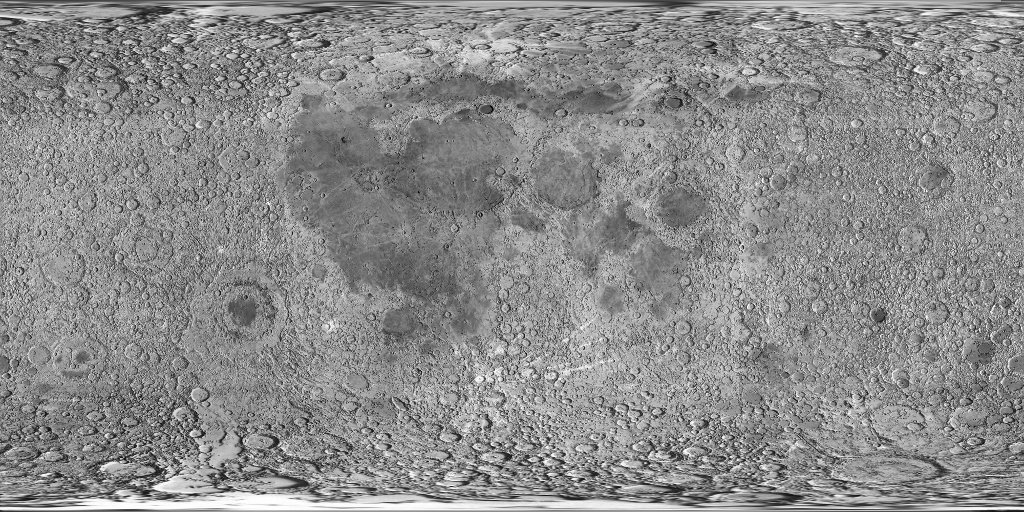
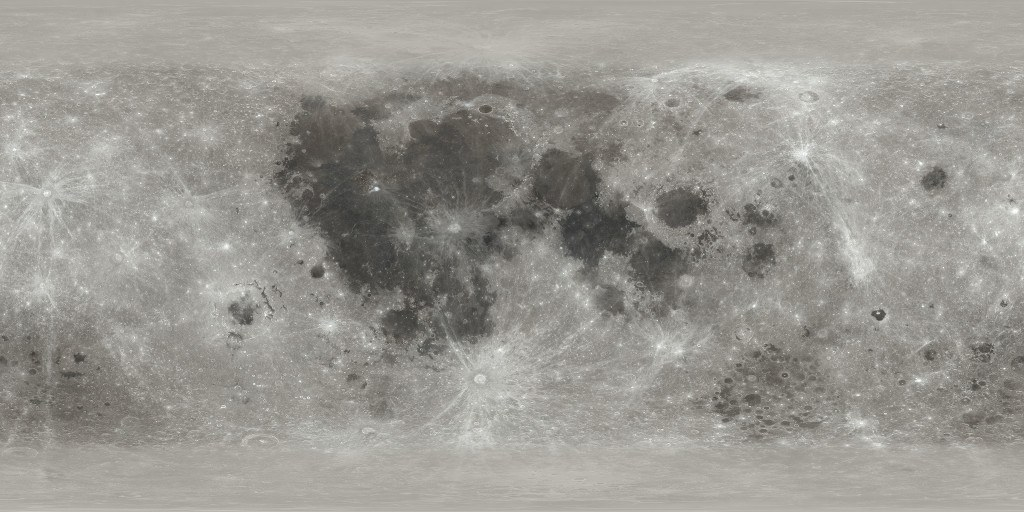
feat: replace the placeholder Earth and Moon textures with NASA imagery
The old three.js images had no recorded licence or source. The new set is
processed from NASA imagery, which NASA's usage guidelines say is generally
not subject to copyright for texture maps: Blue Marble (day), Black Marble
2016 (night), a cloud layer recovered from the SVS Earth with and without
clouds, and the LRO colour map (Moon). Sources and processing are in
public/assets/tex/CREDITS.md and tools/make_textures.py, which reproduces the
files exactly.

The night map includes moonlit snow and terrain the old lights map did not, so
the Earth shader now shows only the warm city lights (gated on the red channel)
and keeps the rest of the night side dark.

diff --git a/src/scenes/earth/index.ts b/src/scenes/earth/index.ts
@@ -20,11 +20,11 @@ function earth(): Scene {
   const black = new THREE.DataTexture(new Uint8Array([0, 0, 0, 255]), 1, 1); black.needsUpdate = true;
   const eMat = new THREE.ShaderMaterial({ uniforms: { uDay: { value: blue }, uNight: { value: black }, uSun: { value: sunDir } },
     vertexShader: 'varying vec2 vUv;varying vec3 vN;void main(){vUv=uv;vN=normalize(mat3(modelMatrix)*normal);gl_Position=projectionMatrix*modelViewMatrix*vec4(position,1.);}',
-    fragmentShader: 'uniform sampler2D uDay,uNight;uniform vec3 uSun;varying vec2 vUv;varying vec3 vN;void main(){vec3 N=normalize(vN);float l=dot(N,normalize(uSun));vec3 day=texture2D(uDay,vUv).rgb,night=texture2D(uNight,vUv).rgb;float dm=smoothstep(-.12,.22,l);vec3 c=mix(night*1.5+day*.03,day*(.05+max(l,0.)*1.05),dm);gl_FragColor=vec4(c,1.);}' });
-  loader.load(TEX + 'earth_atmos_2048.jpg', t => eMat.uniforms.uDay.value = t); loader.load(TEX + 'earth_lights_2048.png', t => eMat.uniforms.uNight.value = t);
+    fragmentShader: 'uniform sampler2D uDay,uNight;uniform vec3 uSun;varying vec2 vUv;varying vec3 vN;void main(){vec3 N=normalize(vN);float l=dot(N,normalize(uSun));vec3 day=texture2D(uDay,vUv).rgb,night=texture2D(uNight,vUv).rgb;float dm=smoothstep(-.12,.22,l);vec3 c=mix(night*smoothstep(.2,.6,night.r)*1.45+night*.06+day*.03,day*(.05+max(l,0.)*1.05),dm);gl_FragColor=vec4(c,1.);}' });
+  loader.load(TEX + 'earth_day_2048.jpg', t => eMat.uniforms.uDay.value = t); loader.load(TEX + 'earth_night_2048.jpg', t => eMat.uniforms.uNight.value = t);
   const earthMesh = new THREE.Mesh(new THREE.SphereGeometry(1, 96, 64), eMat); group.add(earthMesh);
   const cloudMat = new THREE.MeshLambertMaterial({ color: 0xffffff, transparent: true, opacity: .5, depthWrite: false, emissive: 0x050608 });
-  loader.load(TEX + 'earth_clouds_1024.png', t => { cloudMat.map = t; cloudMat.needsUpdate = true });
+  loader.load(TEX + 'earth_clouds_2048.png', t => { cloudMat.map = t; cloudMat.needsUpdate = true });
   const clouds = new THREE.Mesh(new THREE.SphereGeometry(1.012, 64, 48), cloudMat); group.add(clouds);
   const atm = new THREE.Mesh(new THREE.SphereGeometry(1.04, 64, 48), new THREE.ShaderMaterial({ uniforms: { uSun: { value: sunDir } }, side: THREE.BackSide, transparent: true, depthWrite: false, blending: THREE.AdditiveBlending,
     vertexShader: 'varying vec3 vN;varying vec3 vW;void main(){vN=normalize(normalMatrix*normal);vW=normalize(mat3(modelMatrix)*normal);gl_Position=projectionMatrix*modelViewMatrix*vec4(position,1.);}',

diff --git a/src/scenes/solar/data.ts b/src/scenes/solar/data.ts
@@ -9,7 +9,7 @@ export type MoonDef = [string, string, string, number, number, number, number, n
 export const PLANETS: PlanetDef[] = [
   { id: 'mercury', label: 'Mercury', rkm: 2439.7, color: 0xa59b91, sub: 'Planet · 88-day year', text: 'The smallest planet and closest to the Sun. Its surface swings from 430 °C by day to −180 °C at night.', period: '88 days' },
   { id: 'venus', label: 'Venus', rkm: 6051.8, color: 0xe4c37d, sub: 'Planet · 225-day year', text: 'Hotter than Mercury thanks to a runaway greenhouse effect. It spins backwards, so the Sun rises in the west.', period: '225 days' },
-  { id: 'earth', label: 'Earth', rkm: 6371, color: 0x3264be, tex: 'earth_atmos_2048.jpg', enter: 'earth', enterLabel: 'Enter Earth orbit', sub: 'Planet · 365.25-day year', text: 'The only world known to host life. Double-click to see every satellite and piece of debris tracked in orbit around it.', period: '365.25 days' },
+  { id: 'earth', label: 'Earth', rkm: 6371, color: 0x3264be, tex: 'earth_day_2048.jpg', enter: 'earth', enterLabel: 'Enter Earth orbit', sub: 'Planet · 365.25-day year', text: 'The only world known to host life. Double-click to see every satellite and piece of debris tracked in orbit around it.', period: '365.25 days' },
   { id: 'mars', label: 'Mars', rkm: 3389.5, color: 0xc36944, sub: 'Planet · 687-day year', text: 'A cold desert world with the tallest volcano (Olympus Mons) and the longest canyon system (Valles Marineris) in the solar system.', period: '687 days' },
   { id: 'jupiter', label: 'Jupiter', rkm: 69911, color: 0xd0b28a, bands: [['#b9926b', .5], ['#e8d6b4', .8], ['#a86f4a', .6], ['#eadbc0', .7], ['#b98458', .5], ['#e2cca3', .6], ['#9d6a48', .4]], sub: 'Gas giant · 12-year orbit', text: 'More massive than all other planets combined. The Great Red Spot is a storm wider than Earth that has raged for centuries.', period: '11.9 years' },
   { id: 'saturn', label: 'Saturn', rkm: 58232, color: 0xdecb9b, ring: true, bands: [['#cdb888', .5], ['#ecdcae', .7], ['#d3be8e', .5], ['#e6d4a4', .6]], sub: 'Gas giant · 29-year orbit', text: 'Famous for its spectacular rings of ice and rock. It is so light that it would float in a big enough bathtub.', period: '29.5 years' },

diff --git a/tools/make_textures.py b/tools/make_textures.py
@@ -1,0 +1,89 @@
+"""Rebuild the Earth and Moon textures in public/assets/tex/ from the original NASA images.
+
+Needs Pillow (pip install pillow). Download the five source images into one folder, then:
+
+    python tools/make_textures.py <folder with the downloads> public/assets/tex
+
+Sources (all NASA; see public/assets/tex/CREDITS.md for credit and terms):
+  day_src.jpg        https://assets.science.nasa.gov/content/dam/science/esd/eo/images/bmng/bmng-topography-bathymetry/july/world.topo.bathy.200407.3x5400x2700.jpg
+  night_src.jpg      https://assets.science.nasa.gov/content/dam/science/esd/eo/images/imagerecords/144000/144898/BlackMarble_2016_01deg.jpg
+  clouds_without.jpg https://svs.gsfc.nasa.gov/vis/a000000/a003600/a003615/earth_noClouds.0330.jpg
+  clouds_with.jpg    https://svs.gsfc.nasa.gov/vis/a000000/a003600/a003615/flat_earth_Largest_still.0330.jpg
+  moon_src.jpg       https://svs.gsfc.nasa.gov/vis/a000000/a004700/a004720/lroc_color_poles_1k.jpg
+(save each under the name on the left)
+
+Outputs:
+  earth_day_2048.jpg, earth_night_2048.jpg   resized to 2048x1024
+  earth_clouds_2048.png                      white RGBA, alpha = cloud cover recovered from the with/without pair
+  moon_1024.jpg                              1024x512
+"""
+import os, sys
+from PIL import Image, ImageChops, ImageFilter, ImageStat
+
+raw, out = sys.argv[1], sys.argv[2]
+os.makedirs(out, exist_ok=True)
+Image.MAX_IMAGE_PIXELS = 100_000_000
+W, H = 2048, 1024
+save = lambda im, name, **kw: im.save(os.path.join(out, name), **kw)
+
+def load(name, size=None):
+    im = Image.open(os.path.join(raw, name)).convert('RGB')
+    print(f'{name}: {im.size[0]}x{im.size[1]}')
+    return im.resize(size, Image.LANCZOS) if size and im.size != size else im
+
+# --- day, night, moon: straight resizes ---
+save(load('day_src.jpg', (W, H)), 'earth_day_2048.jpg', quality=88, optimize=True, progressive=True)
+save(load('night_src.jpg', (W, H)), 'earth_night_2048.jpg', quality=88, optimize=True, progressive=True)
+save(load('moon_src.jpg', (1024, 512)), 'moon_1024.jpg', quality=88, optimize=True, progressive=True)
+
+# --- clouds: recover cover from the with/without pair ---
+lw = load('clouds_with.jpg', (W, H)).convert('L')
+lo = load('clouds_without.jpg', (W, H)).convert('L')
+
+# the two images must be registered, or the difference is garbage: compare mean absolute difference at several shifts
+small = lambda im: im.resize((512, 256), Image.BOX)
+sw, so = small(lw), small(lo)
+mad = {dx: ImageStat.Stat(ImageChops.difference(ImageChops.offset(sw, dx, 0), so)).mean[0] for dx in range(-8, 9)}
+best = min(mad, key=mad.get)
+print(f'registration: mean abs difference {mad[0]:.2f}/255 at no shift; best shift = {best * 4} px ({mad[best]:.2f})')
+# clouds legitimately make the images differ a lot, so judge alignment by a clear minimum at zero shift, not by a threshold
+if best != 0 or min(mad[-1], mad[1]) < mad[0] * 1.03:
+    sys.exit('images are not registered; refusing to derive clouds')
+
+# clouds are (near) white: with = a*white + (1-a)*without  =>  a = (with - without) / (1 - without)
+num = ImageChops.subtract(lw, lo)                       # clipped at 0: clouds only brighten the surface
+den = lo.point(lambda v: max(255 - v, 15))              # headroom left to white (floor avoids dividing by ~0)
+a_num, a_den = num.load(), den.load()
+cover = Image.new('L', (W, H))
+px, src_o = cover.load(), lo.load()
+for y in range(H):
+    for x in range(W):
+        if src_o[x, y] > 237:          # snow/ice is already white: cover cannot be told apart there
+            continue
+        v = min(255, a_num[x, y] * 255 // a_den[x, y])
+        if v >= 8: px[x, y] = v        # drop noise so clear sky stays clear
+# The two source images differ slightly in colour grading and coastline sharpness, which leaves 1-px ghost coastlines and a
+# faint haze over bright land. A median filter removes the thin lines; a soft floor removes the haze but keeps real cloud.
+cover = cover.filter(ImageFilter.MedianFilter(5))
+FLOOR = 56  # alpha below ~22% is treated as no cloud
+cover = cover.point(lambda v: 0 if v <= FLOOR else min(255, (v - FLOOR) * 255 // (255 - FLOOR)))
+# The source cloud composite only covers roughly 60 N to 60 S and stops in a hard line. Fade the layer out over ~10 degrees
+# before each limit so no ring shows on the globe.
+rows = cover.resize((1, H), Image.BOX)           # average cover per row, so stray pixels near the poles do not count
+ys = [y for y in range(H) if rows.getpixel((0, y)) > 6]
+top = bottom = ys[0]
+for y in ys[1:]:                 # main band = first run of cloud rows, tolerating gaps of < 8 rows
+    if y - bottom > 8: break
+    bottom = y
+R = 64
+ramp = Image.new('L', (1, H), 0)
+ramp.putdata([0 if y < top or y > bottom else int(255 * min(1.0, (y - top) / R, (bottom - y) / R)) for y in range(H)])
+cover = ImageChops.multiply(cover, ramp.resize((W, H)))
+print(f'cloud rows {top}..{bottom} of {H} (latitude {90 - 180 * top / H:.0f} to {90 - 180 * bottom / H:.0f}), faded over {R} rows')
+stat = ImageStat.Stat(cover)
+print(f'cloud alpha: mean {stat.mean[0] / 255:.3f}, max {stat.extrema[0][1]}')
+rgba = Image.merge('RGBA', (*([Image.new('L', (W, H), 255)] * 3), cover))
+save(rgba, 'earth_clouds_2048.png', optimize=True)
+
+for f in sorted(os.listdir(out)):
+    print(f'{f:24s} {os.path.getsize(os.path.join(out, f)):>9,d} B')

diff --git a/public/assets/tex/CREDITS.md b/public/assets/tex/CREDITS.md
@@ -1,0 +1,13 @@
+# Texture credits
+
+All four textures are derived from NASA imagery. NASA's [Images and Media Usage Guidelines](https://www.nasa.gov/nasa-brand-center/images-and-media/)
+state that NASA content used in the rendition of 3-dimensional models, such as texture maps, is generally not subject to
+copyright in the United States, and may be used in computer graphical simulations and web pages provided it does not imply
+NASA's endorsement. This project is not affiliated with or endorsed by NASA.
+
+| File | Made from | Source | Processing |
+| --- | --- | --- | --- |
+| `earth_day_2048.jpg` | Blue Marble: Next Generation with Topography and Bathymetry, July (`world.topo.bathy.200407.3x5400x2700.jpg`) | [NASA Visible Earth, image 73909](https://visibleearth.nasa.gov/images/73909/december-blue-marble-next-generation-w-topography-and-bathymetry) (NASA Earth Observatory) | Resized from 5400x2700 to 2048x1024 |
+| `earth_night_2048.jpg` | Earth at Night / Black Marble 2016, colour (`BlackMarble_2016_01deg.jpg`) | [NASA Visible Earth, image 144898](https://visibleearth.nasa.gov/images/144898/earth-at-night-black-marble-2016-color-maps) (NASA Earth Observatory) | Resized from 3600x1800 to 2048x1024 |
+| `earth_clouds_2048.png` | Equirectangular Earth for "LARGEST", with and without clouds (`flat_earth_Largest_still.0330.jpg`, `earth_noClouds.0330.jpg`) | [NASA Scientific Visualization Studio, item 3615](https://svs.gsfc.nasa.gov/3615/) (visualization by Greg Shirah) | Cloud cover recovered from the difference between the two images, cleaned of coastline artefacts and faint haze, and faded out toward the edge of the source coverage (about 55 N to 53 S). The original was art-directed for a film, so this is stylised cloud, not a live measurement |
+| `moon_1024.jpg` | LRO colour map (`lroc_color_poles_1k.jpg`) | [NASA SVS, item 4720 (CGI Moon Kit)](https://svs.gsfc.nasa.gov/4720/), credit: NASA's Scientific Visualization Studio | Re-encoded as JPEG |
